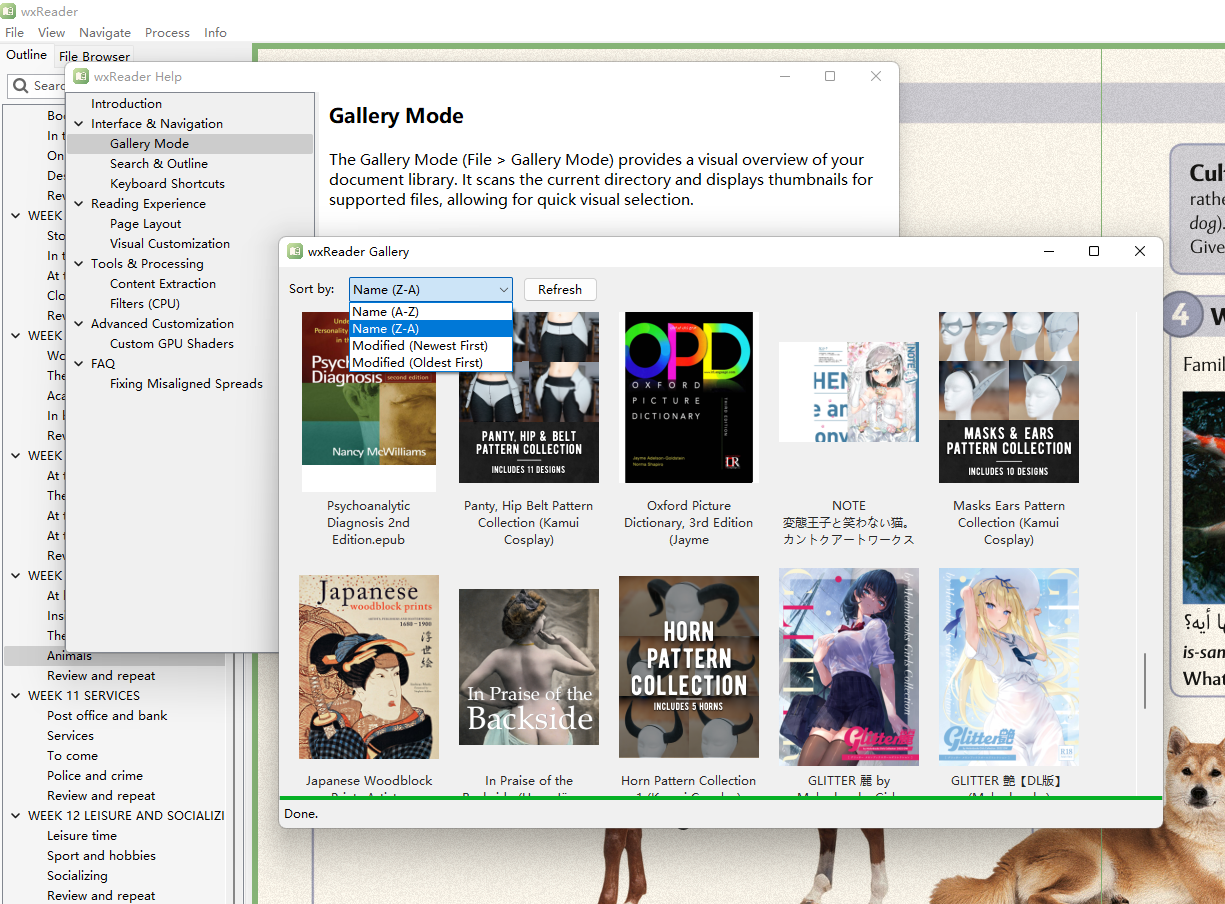
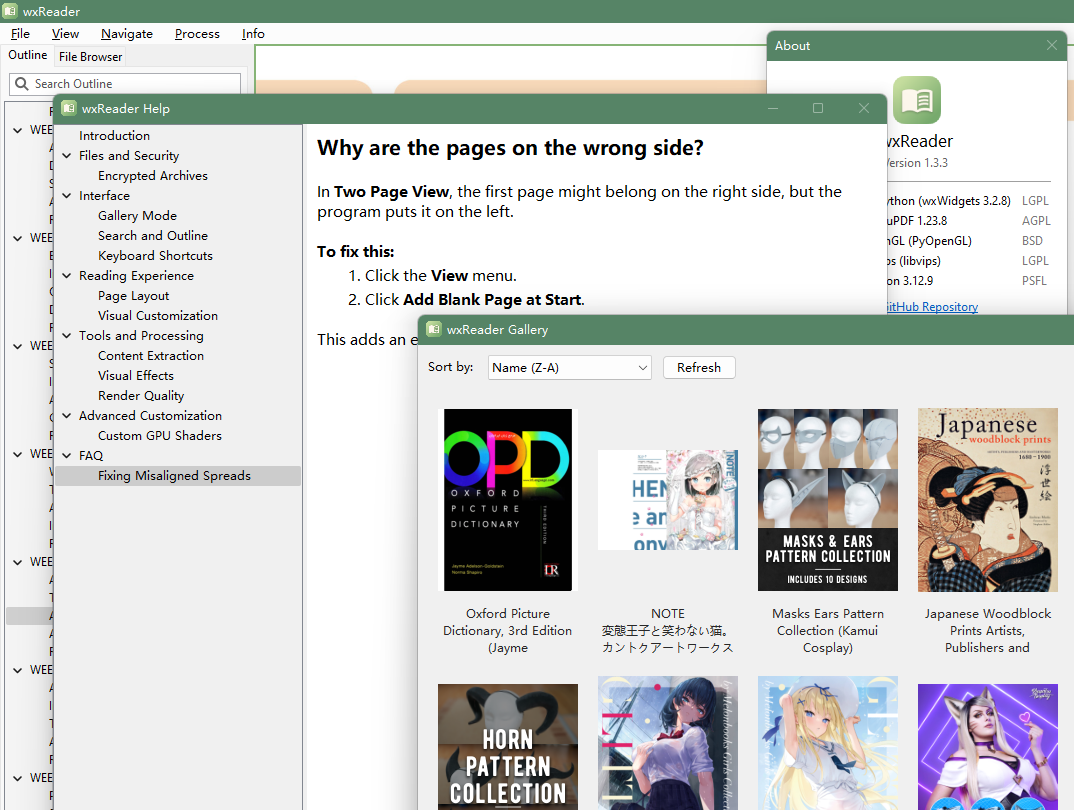
get ready for 1.3.3 screenshots

diff --git a/README.md b/README.md
@@ -5,7 +5,7 @@ Python.
 
 > **Version ~1.2** Supports OpenGL shaders with some built-in options, and you can add your own custom shaders. New Gallery mode, built-in help manual.
 > 
-> **Version 1.3.1** Add support for zip and cbz files. Add passwordbook support. Switch image backend to libvips. Fix image cache. Refactor code for maintainability. Many bugs fixed.
+> **Version 1.3.3** Add support for zip and cbz files. Add passwordbook support. Switch image backend to libvips. Fix image cache. Refactor code for maintainability. New UI decorations. MANY bugs fixed. 
 
 ---
 
@@ -50,4 +50,5 @@ Python.
 - [x] add support for encrypted zip and cbz files...
 - [x] fix page/width fit not auto updating when a book is made of pages of different sizes
 - [x] handle two pages of different size in Two-page view
-- [ ] add manual detect new version and open browser in the menu
+- [x] add manual detect new version and open browser in the menu
+- [ ] scale UI (add to `get_app_font(size)`)
